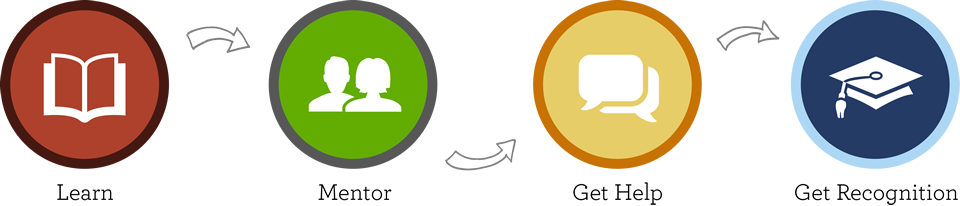
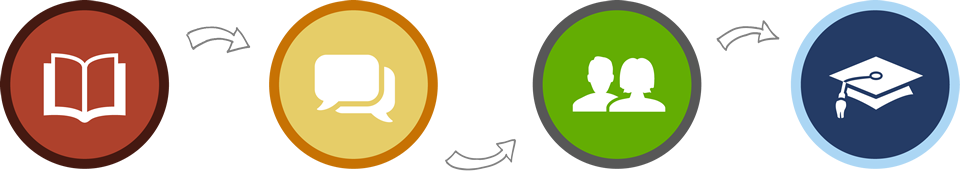
The text in the breakdown graphic is now independent of the image.

diff --git a/lernanta/media/css/batucada.css b/lernanta/media/css/batucada.css
@@ -1195,7 +1195,33 @@ header {}
   z-index: -9999;
   margin-top: 40px;
   opacity: 0.9;
-  height: 236px;
+  height: 220px;
+  width: 960px;
+  background: url("/media/images/breakdown.png") no-repeat 20px 0;
+}
+
+#breakdown ul {
+padding-top: 190px;
+}
+
+#breakdown ul li {
+display: inline;
+margin: 0 200px 0 0;
+font-size: 20px;
+color: #000;
+}
+
+#breakdown ul li:first-child {
+margin-left: 25px;
+}
+
+#breakdown ul li.third-child {
+margin-left: -10px;
+}
+
+#breakdown ul li:last-child {
+margin-right: 0;
+margin-left: -50px;
 }
   
 #main {

diff --git a/lernanta/templates/dashboard/splash.html b/lernanta/templates/dashboard/splash.html
@@ -28,7 +28,12 @@
 
 <section id="breakdown">
   <div class="container">
-    <img src="{{ MEDIA_URL }}images/breakdown.png">  
+    <ul>
+      <li>{{ _('Learn') }}</li>
+      <li>{{ _('Get Help') }}</li>
+      <li class="third-child">{{ _('Mentor') }}</li>
+      <li>{{ _('Get Recognition') }}</li>
+    </ul>  
   </div>  
 </section>
 
